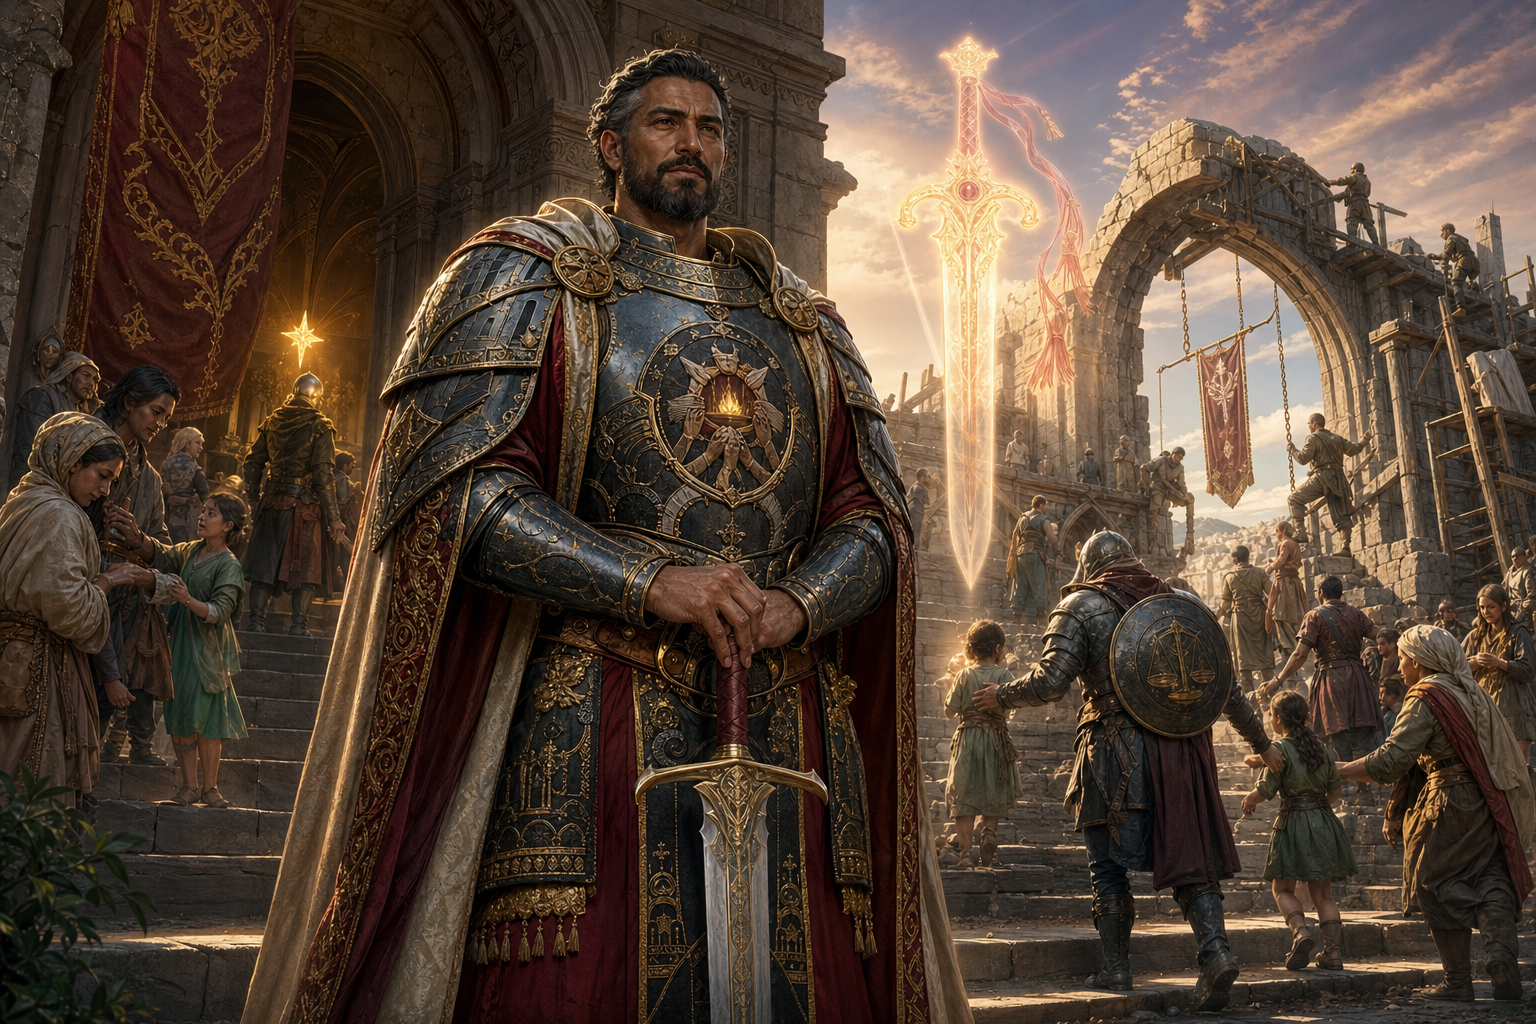
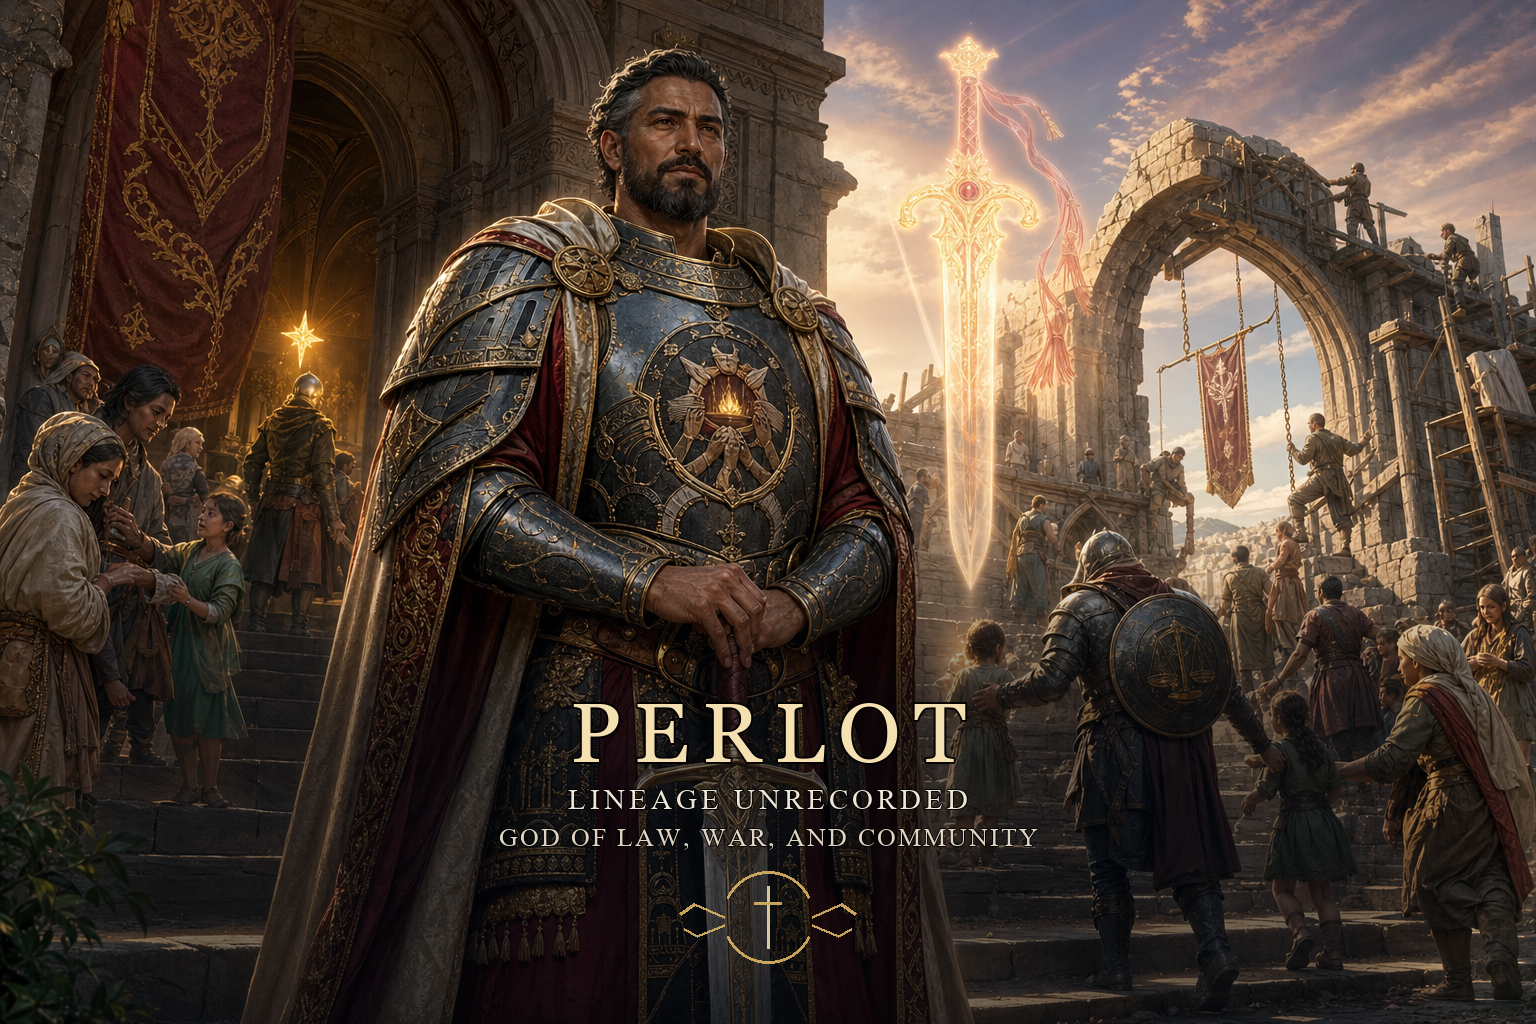
Complete Perlot deity identity workflow

Changed region(s): [[0.0625, 0.5625, 0.9375, 1.0]]

diff --git a/scripts/add_deity_title_cards.py b/scripts/add_deity_title_cards.py
@@ -34,7 +34,7 @@ TARGETS = [
     "Chronos", "Ananke", "Erebus", "Eros (Primordial)", "Hydros", "Phusis",
     "Pontus", "Tethys", "Nereus", "Thanatos", "Morpheus", "The Fates",
     "Dionysus", "Asclepius", "Muses", "Harpocrates", "The Furies",
-    "Cleomenes", "Galatea", "Peitho", "Ena", "Keto", "Echidna",
+    "Cleomenes", "Perlot", "Galatea", "Peitho", "Ena", "Keto", "Echidna",
 ]
 
 SLUGS = {
@@ -70,6 +70,7 @@ LINEAGE = {
     "Morpheus": "SON OF HYPNOS", "The Fates": "DAUGHTERS OF ZEUS", "Dionysus": "SON OF ZEUS",
     "Asclepius": "SON OF APOLLO", "Muses": "DAUGHTERS OF ZEUS", "Harpocrates": "SON OF OSIRIS",
     "The Furies": "BORN OF OURANOS", "Cleomenes": "LINEAGE UNRECORDED",
+    "Perlot": "LINEAGE UNRECORDED",
     "Galatea": "DAUGHTER OF NEREUS", "Peitho": "DAUGHTER OF OCEANUS",
     "Ena": "PATERNAL LINEAGE UNRECORDED", "Keto": "DAUGHTER OF PONTUS",
     "Echidna": "DAUGHTER OF PHORCYS",
@@ -117,7 +118,8 @@ PORTFOLIO = {
     "The Fates": "LEGEND, FATE, TRUTH, AND REVELATION", "Dionysus": "MADNESS, CHAOS, PLANTS, AND TRAVEL",
     "Asclepius": "HEALING AND EDUCATION", "Muses": "ARTIFICE, KNOWLEDGE, LUCK, AND CHARM",
     "Harpocrates": "SOLITUDE, PURITY, AND KNOWLEDGE", "The Furies": "FAMILY, JUDGMENT, FEROCITY, AND BLOOD",
-    "Cleomenes": "SCALYKIND, FIRE, AND SURVIVAL", "Galatea": "WATER, CAPTIVATION, AND LOVE",
+    "Cleomenes": "SCALYKIND, FIRE, AND SURVIVAL", "Perlot": "LAW, WAR, AND COMMUNITY",
+    "Galatea": "WATER, CAPTIVATION, AND LOVE",
     "Peitho": "CHARM", "Ena": "HEALING, PHOENIX, INDUSTRY, HOME, COOPERATION, AND LIBERATION",
     "Keto": "SEA MONSTERS AND THE OCEAN DEPTHS", "Echidna": "MONSTERS, SERPENTS, AND WILD PLACES",
 }
@@ -143,7 +145,7 @@ MOTIF = {
     "Erebus":"eclipse", "Eros (Primordial)":"spiral", "Hydros":"wave", "Phusis":"leaf", "Pontus":"wave",
     "Tethys":"river", "Nereus":"trident", "Thanatos":"torch", "Morpheus":"wing", "The Fates":"spindle",
     "Dionysus":"grapes", "Asclepius":"healing", "Muses":"lyre", "Harpocrates":"eye", "The Furies":"serpent",
-    "Cleomenes":"dragon", "Galatea":"shell", "Peitho":"heart", "Ena":"phoenix", "Keto":"serpent", "Echidna":"serpent",
+    "Cleomenes":"dragon", "Perlot":"sword", "Galatea":"shell", "Peitho":"heart", "Ena":"phoenix", "Keto":"serpent", "Echidna":"serpent",
 }
 
 

diff --git a/CHANGELOG.md b/CHANGELOG.md
@@ -1,5 +1,15 @@
 # Change Log
 
+## Complete Perlot's deity portrait treatment - 2026-08-03
+
+- Added the omitted Perlot portrait to the deterministic deity title-card
+  series with `LINEAGE UNRECORDED`, `GOD OF LAW, WAR, AND COMMUNITY`, and a
+  gold longsword sigil.
+- Updated the compositor and workflow count to 78 managed portraits plus the
+  unchanged Aetherion reference, covering all 79 active deity portraits.
+- Synchronized the matching main-repository mirror without changing the
+  portrait's character, scene, crop, or dimensions.
+
 ## Replace Ena's canonical deity portrait - 2026-08-03
 
 - Replaced the existing Ena mirror with the user-supplied half-orc

diff --git a/docs/DEITY_ART_WORKFLOW.md b/docs/DEITY_ART_WORKFLOW.md
@@ -71,8 +71,8 @@ Before publishing:
    scene, crop, and dimensions are unchanged outside the lower title region.
 2. Confirm the clean-master hash before and after compositing.
 3. Confirm the Wiki image and any main-repository mirror have identical hashes.
-4. Confirm the apply manifest still contains all 77 compositor-managed gods;
-   with unchanged Aetherion, this covers 78 active deity portraits.
+4. Confirm the apply manifest still contains all 78 compositor-managed gods;
+   with unchanged Aetherion, this covers 79 active deity portraits.
 5. Run `git diff --check` in both repositories.
 6. From the main repository, run:
 
